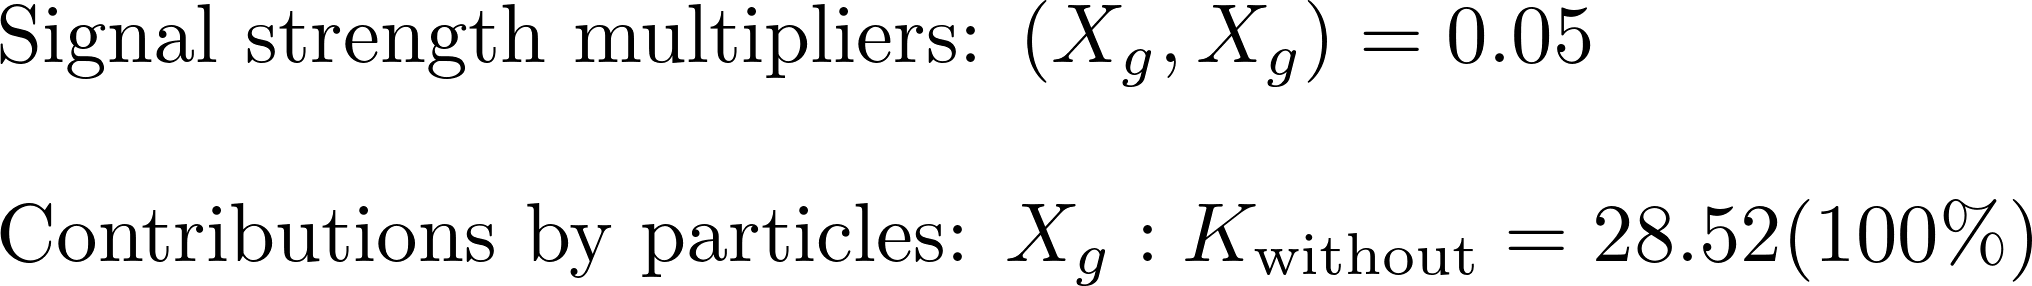
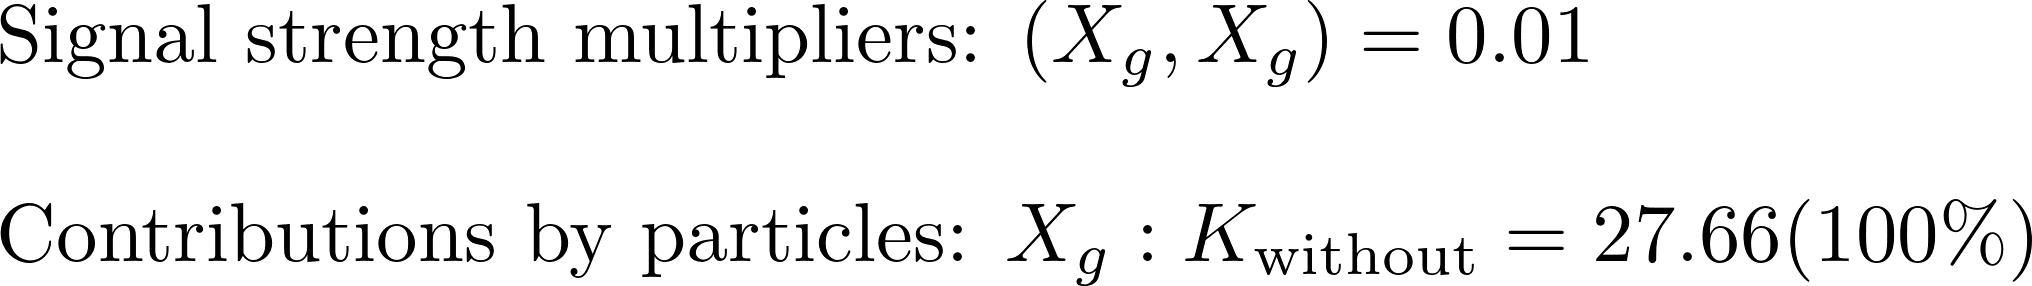
automated update by plotHiscore.py

Changed region(s): [[0.8061, 0.6993, 0.8991, 0.9231], [0.7441, 0.1119, 0.8061, 0.2238], [0.7441, 0.028, 0.8061, 0.1119]]

diff --git a/protomodels/latest/index.html b/protomodels/latest/index.html
@@ -1,29 +1,27 @@
 <html>
 <body>
 <center>
-<table><td><h1>Current best protomodel: K=36.43</h1><td><img height=60px src=https://smodels.github.io/pics/banner.png></table>
+<table><td><h1>Current best protomodel: K=27.66</h1><td><img height=60px src=https://smodels.github.io/pics/banner.png></table>
 </center>
-<b><a href=./hiscore.slha>ProtoModel</a> <a href=./pmodel.py>(dict)</a> produced with <a href=https://smodels.github.io/docs/Validation124signal19>database v1.2.4signal19</a>, combination strategy <a href=./matrix_aggressive.png>aggressive</a> in walker 39 step 818.</b> K plots for: <a href=./M1000022.png?8266790>X<sub>Z</sub><sup>1</sup></a>, <a href=./M1000002.png?8266790>X<sub>u</sub></a>, <a href=./M1000001.png?8266790>X<sub>d</sub></a>. HPD plots for: <a href=./llhd1000002.png?8266790>X<sub>u</sub></a>, <a href=./llhd1000001.png?8266790>X<sub>d</sub></a>. SSM plots for: <br>
+<b><a href=./hiscore.slha>ProtoModel</a> <a href=./pmodel.py>(dict)</a> produced with <a href=https://smodels.github.io/docs/Validation124signal2>database v1.2.4signal2</a>, combination strategy <a href=./matrix_aggressive.png>aggressive</a> in walker 27 step 522.</b> K plots for: <a href=./M1000022.png?8266960>X<sub>Z</sub><sup>1</sup></a>, <a href=./M1000021.png?8266960>X<sub>g</sub></a>. HPD plots for: <a href=./llhd1000021.png?8266960>X<sub>g</sub></a>. SSM plots for: <a href=./ssm_1000021_1000021.png?8266960>(X<sub>g</sub>,X<sub>g</sub>)</a><br>
 <table width=80%>
 <tr><td>
-<br><b>14 predictions available. Highest r values are:</b><br><ul>
-<li>CMS-SUS-13-012:T2 r=1.29, r<sub>exp</sub>=N/A<br>
-<li>CMS-SUS-16-033:T2 r=1.24, r<sub>exp</sub>=N/A<br>
-<li>CMS-SUS-19-006:T2 r=1.23, r<sub>exp</sub>=N/A<br>
-<li>CMS-SUS-16-036:T2 r=0.98, r<sub>exp</sub>=N/A<br>
-<li>CMS-SUS-16-033:T2 r=0.80, r<sub>exp</sub>=N/A<br>
+<br><b>4 predictions available. Highest r values are:</b><br><ul>
+<li>ATLAS-SUSY-2013-02:T1 r=1.30, r<sub>exp</sub>=1.88<br>
+<li>ATLAS-SUSY-2016-07:T1 r=0.68, r<sub>exp</sub>=1.73<br>
+<li>CMS-SUS-16-033:T1 r=0.30, r<sub>exp</sub>=0.62<br>
+<li>ATLAS-SUSY-2013-02:T1 r=0.00, r<sub>exp</sub>=N/A<br>
 </ul>
 <td><br><b>K values without analyses: (contribution)</b><br>
 <ul>
-<li> <a href=>CMS-SUS-12-028</a>: 34.31 (5%)
-<li> <a href=>ATLAS-SUSY-2016-07</a>: 24.46 (26%)
-<li> <a href=>ATLAS-SUSY-2013-02</a>: 23.68 (28%)
-<li> <a href=>CMS-SUS-16-033</a>: 17.19 (42%)
-<td><img width=600px src=./texdoc.png?1601266790>
-<br><font size=-1>Last updated: Mon Sep 28 06:19:50 2020</font>
+<li> <a href=>CMS-SUS-16-033</a>: 22.15 (19%)
+<li> <a href=>ATLAS-SUSY-2013-02</a>: 16.85 (37%)
+<li> <a href=>ATLAS-SUSY-2016-07</a>: 14.52 (45%)
+<td><img width=600px src=./texdoc.png?1601266960>
+<br><font size=-1>Last updated: Mon Sep 28 06:22:40 2020</font>
 </table><table style="width:80%">
-<td width=45%><img height=580px src=./ruler.png?1601266790><td width=55%><img height=380px src=./decays.png?1601266790>
-<font size=-3><iframe type="text/html" height="220px" width="100%s" frameborder="0" src="./rawnumbers.html?1601266790"></iframe></font>
+<td width=45%><img height=580px src=./ruler.png?1601266960><td width=55%><img height=380px src=./decays.png?1601266960>
+<font size=-3><iframe type="text/html" height="220px" width="100%s" frameborder="0" src="./rawnumbers.html?1601266960"></iframe></font>
 </table>
 </body>
 </html>

diff --git a/protomodels/latest/rawnumbers.html b/protomodels/latest/rawnumbers.html
@@ -1,8 +1,7 @@
 <table>
 <tr><th>Analysis Name</th><th>Type</th><th>Dataset</th><th>Topos</th><th>Observed</th><th>Expected</th><th>Approx &sigma;</th><th>Particles</th><th>Signal</th>
 </tr>
-<tr><td>ATLAS-SUSY-2013-02</td><td>em</td> <td>SR4jlm</td><td>T2</td><td>2520</td><td>2120 +/- 110</td><td style="text-align:right">3.4 &sigma;</td><td style="text-align:right">X<sub>d</sub>, X<sub>u</sub></td><td style="text-align:right">357</td></tr>
-<tr><td>ATLAS-SUSY-2016-07</td><td>em</td> <td>4j_Meff_1400</td><td>T2</td><td>256</td><td>182 +/- 16</td><td style="text-align:right">3.5 &sigma;</td><td style="text-align:right">X<sub>d</sub>, X<sub>u</sub></td><td style="text-align:right">75</td></tr>
-<tr><td>CMS-SUS-12-028</td><td>ul</td> <td>-</td><td>T2</td><td> 52.4 fb </td><td> 25.9 fb</td><td style="text-align:right">2.0 &sigma;</td><td style="text-align:right">X<sub>u</sub></td><td style="text-align:right">-</td></tr>
-<tr><td>CMS-SUS-16-033</td><td>em</td> <td>SR3_Njet5_Nb0_H ...</td><td>T2</td><td>1081</td><td>806 +/- 57</td><td style="text-align:right">4.3 &sigma;</td><td style="text-align:right">X<sub>d</sub>, X<sub>u</sub></td><td style="text-align:right">144</td></tr>
+<tr><td>ATLAS-SUSY-2013-02</td><td>em</td> <td>SR4jlm</td><td>T1</td><td>2524</td><td>2120 +/- 110</td><td style="text-align:right">3.4 &sigma;</td><td style="text-align:right">X<sub>g</sub></td><td style="text-align:right">348</td></tr>
+<tr><td>ATLAS-SUSY-2016-07</td><td>em</td> <td>4j_Meff_1000</td><td>T1</td><td>188</td><td>124 +/- 12</td><td style="text-align:right">3.9 &sigma;</td><td style="text-align:right">X<sub>g</sub></td><td style="text-align:right">50</td></tr>
+<tr><td>CMS-SUS-16-033</td><td>em</td> <td>SR3_Njet5_Nb0_H ...</td><td>T1</td><td>986</td><td>806 +/- 57</td><td style="text-align:right">2.8 &sigma;</td><td style="text-align:right">X<sub>g</sub></td><td style="text-align:right">126</td></tr>
 </table>

diff --git a/protomodels/latest/pmodel.py b/protomodels/latest/pmodel.py
@@ -1,1 +1,1 @@
-{'masses': {1000022: 21.264, 1000001: 260.082, 1000002: 677.618}, 'ssmultipliers': {(1000022, 1000022): 29249.948, (1000001, 1000001): 7377.661, (-1000001, 1000001): 0.381, (-1000001, -1000001): 0.256, (1000001, 1000022): 7377.661, (-1000001, 1000022): 7377.661, (1000002, 1000002): 0.758, (-1000002, 1000002): 0.758, (-1000002, -1000002): 0.758, (1000002, 1000022): 0.758, (-1000002, 1000022): 0.758, (1000001, 1000002): 0.758, (-1000002, 1000001): 0.758, (-1000001, 1000002): 0.758, (-1000002, -1000001): 0.758}, 'decays': {1000022: {}, 1000001: {(1000022, 1): 1.0}, 1000002: {(1000022, 2): 1.0}}, 'timestamp': 'Mon Sep 28 06:19:37 2020', 'Z': 6.368, 'K': 36.432, 'step': 818, 'codever': '1.0', 'dbver': '1.2.4signal19'}
+{'masses': {1000022: 11.0, 1000021: 239.602}, 'ssmultipliers': {(1000022, 1000022): 0.897, (1000021, 1000021): 0.013, (1000021, 1000022): 0.717}, 'decays': {1000022: {}, 1000021: {(1000022, 1): 1.0}}, 'timestamp': 'Mon Sep 28 06:22:24 2020', 'Z': 5.469, 'K': 27.656, 'step': 522, 'codever': '1.0', 'dbver': '1.2.4signal2'}
